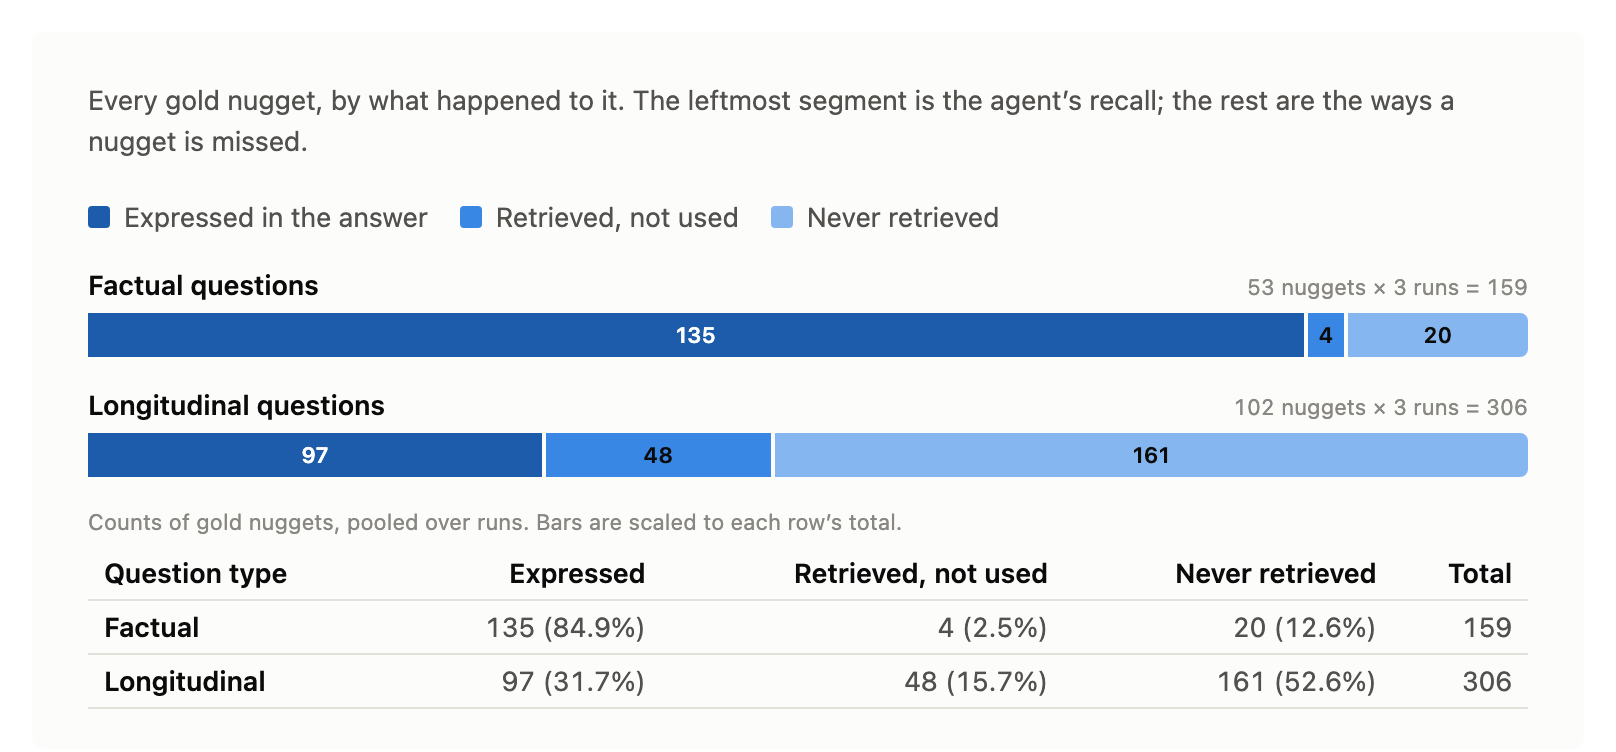
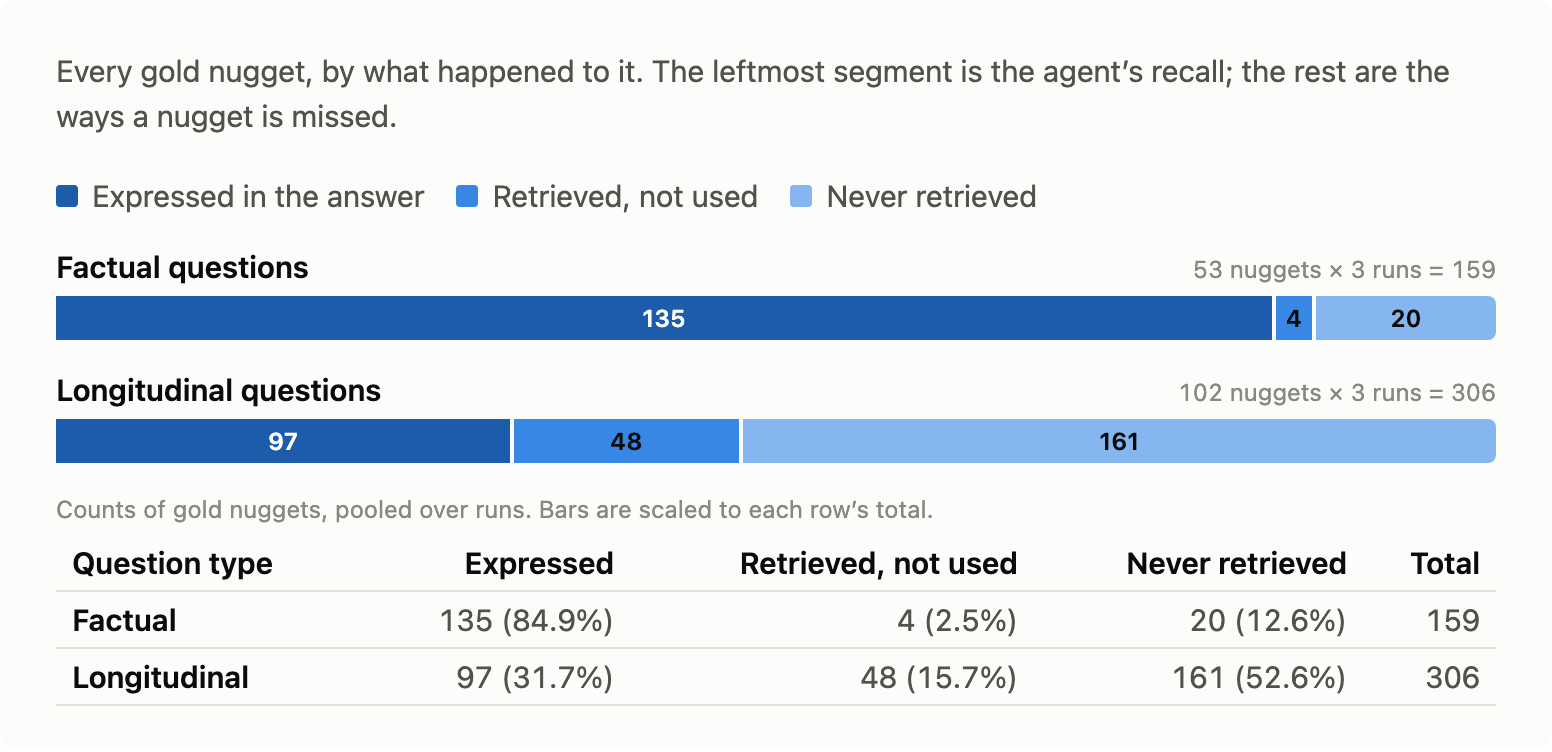
Render the recall decomposition figure flush to the image edge at a larger type scale

diff --git a/docs/recall_decomposition.html b/docs/recall_decomposition.html
@@ -50,7 +50,7 @@
      a dark page, instead of a page-coloured block that only matches one theme */
   body {
     margin: 0;
-    padding: 16px;
+    padding: 0;
     background: transparent;
     font-family: system-ui, -apple-system, "Segoe UI", sans-serif;
   }
@@ -71,7 +71,7 @@
     color: var(--text-primary);
   }
   .viz-sub {
-    font-size: 13.5px;
+    font-size: 15px;
     line-height: 1.5;
     margin: 0 0 20px;
     color: var(--text-secondary);
@@ -87,7 +87,7 @@
     display: flex;
     align-items: center;
     gap: 7px;
-    font-size: 13.5px;
+    font-size: 15px;
     color: var(--text-secondary);
   }
   .swatch {
@@ -108,12 +108,12 @@
     margin-bottom: 6px;
   }
   .row-label {
-    font-size: 13.5px;
+    font-size: 15px;
     font-weight: 600;
     color: var(--text-primary);
   }
   .row-n {
-    font-size: 11px;
+    font-size: 12px;
     color: var(--text-muted);
     font-variant-numeric: tabular-nums;
   }
@@ -129,7 +129,7 @@
     display: flex;
     align-items: center;
     justify-content: center;
-    font-size: 11px;
+    font-size: 12px;
     font-weight: 600;
     color: var(--ink-on-fill);
     cursor: default;
@@ -156,12 +156,12 @@
     width: 100%;
     border-collapse: collapse;
     margin-top: 16px;
-    font-size: 13.5px;
+    font-size: 15px;
     color: var(--text-secondary);
   }
   .viz-table caption {
     text-align: left;
-    font-size: 11px;
+    font-size: 12px;
     color: var(--text-muted);
     padding-bottom: 6px;
   }
@@ -189,7 +189,7 @@
     border: 1px solid var(--rule);
     border-radius: 4px;
     padding: 7px 10px;
-    font-size: 13.5px;
+    font-size: 15px;
     line-height: 1.45;
     box-shadow: 0 2px 10px rgba(0,0,0,0.12);
     opacity: 0;
